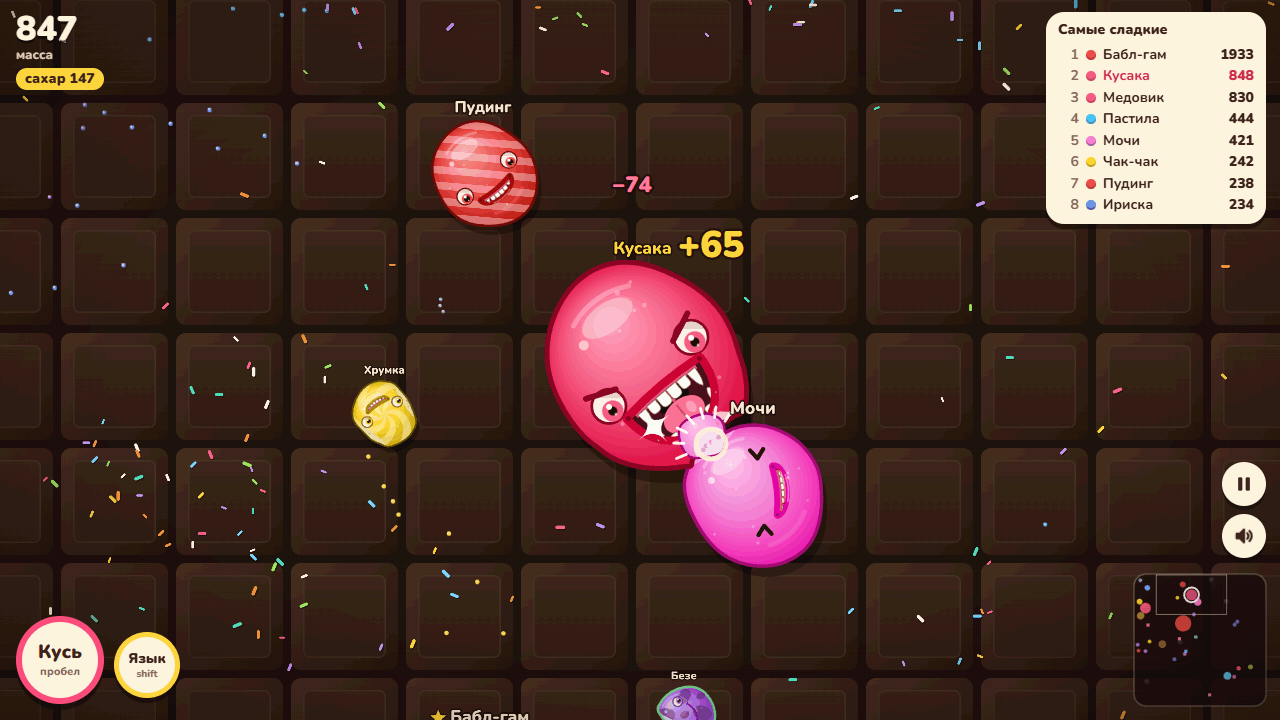
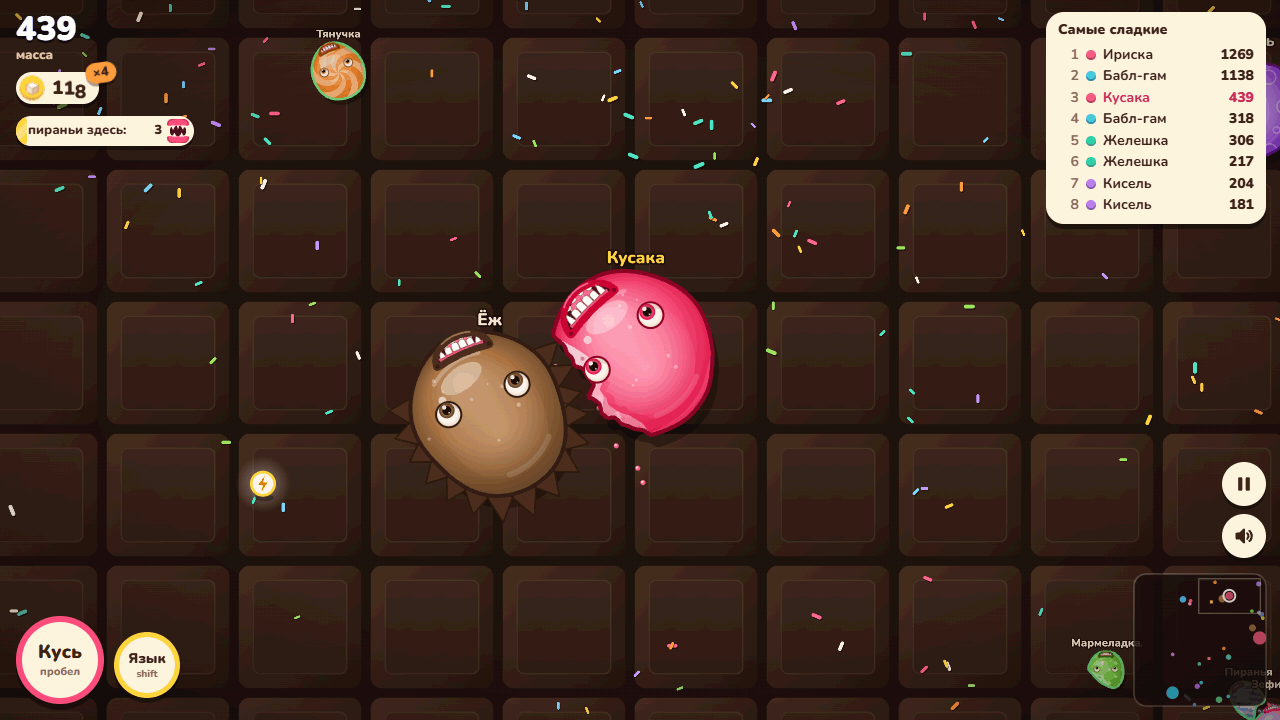
Docs for the trophy, streak, wrapper and cream pills

diff --git a/README.md b/README.md
@@ -16,12 +16,16 @@ The bitten candy stays in the game. It is left with a wound that heals over time
 
 On the tray there are sprinkles to eat and bonuses: speed, a shield and a magnet. A sticky tongue pulls prey to your mouth.
 
+Bites that follow one another build a streak (the window is 2.6 seconds). While it lasts, «×N» jumps above your candy instead of its name, a fuse ring on the tray and one around the «Кусь» button burn down and blink at the end, and every bite sends sugar cubes flying into the sugar pill, which rolls its number like an odometer. Longer streaks bring stamps («Ням!», «Хрум-хрум!», «Обжора!», «На волоске!» for a bite at the last moment), bigger eyes and, from ×5, a sugar rush of pulsing screen edges and sprinkles. When the streak ends a small pill says how much sugar it brought.
+
+If a ×5 or longer streak runs out on its own in a run without cheats, a runaway wrapper, «Фантик», jumps out of the last wound and flees for 5 seconds with «Лови!» over it. Touch it with your candy to catch it: it unwraps in front of you (the game does not stop) and pays sugar, sometimes with a rarer reveal («Редкий!», «Джекпот!»). Bots ignore it. Measurements: [docs/stages.md](docs/stages.md).
+
 <p align="center"><img src="docs/media/bite.png" width="560" alt="A short loop of a bite: the snap, the piece on its strand, chewing"></p>
 
 ## Screenshots
 
 <p align="center">
-  <img src="docs/media/phone-play.png" width="250" alt="Playing on a phone: the joystick under the thumb on the left, the bite and tongue buttons on the right, the leaderboard and the minimap at the top">
+  <img src="docs/media/phone-play.png" width="250" alt="Playing on a phone: the joystick under the thumb on the left, the bite and tongue buttons on the right, the cream mass, sugar and event pills at the top left, the leaderboard and the minimap at the top right">
   <img src="docs/media/phone-menu.png" width="250" alt="The short menu of a first visit: logo, one line about the game, name, flavour and the Play button">
   <img src="docs/media/phone-daily.png" width="250" alt="The end of a candy-of-the-day run: mass, bites, candies eaten whole, sugar earned and a pick of three candies">
 </p>
@@ -59,7 +63,7 @@ Special rivals:
 
 ## Modes
 
-- «Свободная игра» (free play): no time limit, and the run has stages. A line under your mass shows the next event and how much mass is left to it. At mass 150 (or by 0:45 at the latest) a piranha pack comes for you; at 600 (or by 2:00) a sweet rain of sprinkles and bonuses falls around you for 15 seconds; at 1600 the Big Cake, «Большой Торт», comes after you. It is a boss only you can bite: its crust is hard, it keeps its mouth turned to you and bites, then turns away for a few seconds, and that is the moment for the cherry on its back. A cherry bite makes it whirl round; at two thirds and one third it calls a piranha escort. Eat it and the run ends with a win screen, your clear time and your best time. «Вторая смена» (second shift) carries on with the same mass and place and a fresh score: the events come round by timers, faster, and each lap's cake is tougher. In free play there is no other cake and no other piranha packs. Design and measurements: [docs/stages.md](docs/stages.md).
+- «Свободная игра» (free play): no time limit, and the run has stages. A line under your mass shows the next event and how much mass is left to it. At mass 150 (or by 0:45 at the latest) a piranha pack comes for you; at 600 (or by 2:00) a sweet rain of sprinkles and bonuses falls around you for 15 seconds; at 1600 the Big Cake, «Большой Торт», comes after you. It is a boss only you can bite: its crust is hard, it keeps its mouth turned to you and bites, then turns away for a few seconds, and that is the moment for the cherry on its back. A cherry bite makes it whirl round; at two thirds and one third it calls a piranha escort. Eat it and the run ends with a trophy card, «Торт съеден!» (the cake is eaten): the clear time, a new-record ribbon, tiles for mass, bites and sugar, and a live frosting frame around the card that is poured on as it appears. Your best time is kept. «Вторая смена» (second shift) carries on with the same mass and place and a fresh score: the events come round by timers, faster, and each lap's cake is tougher. In free play there is no other cake and no other piranha packs. Design and measurements: [docs/stages.md](docs/stages.md).
 - «3 минуты на счёт» (3 minutes for score): a timed run, the best result is kept.
 - «Конфета дня» (candy of the day): a three-minute run on normal difficulty with a twist that comes from the date and is the same for everyone that day, such as twice as many hedgehogs, piranha packs from the first seconds or a cake on the tray from the start. The game keeps your best of the day and how many days in a row you have played. After a run you can send a friend a challenge link with your score; a link from an earlier day says that candy is over.
 
@@ -98,7 +102,7 @@ npm run sfx     # re-embed the sound takes listed in tools/sfx.json (needs ffmpe
 
 `index.html` in the root is generated from `src/` and committed together with the sources, because GitHub Pages serves it. Edit `src/`, then run `npm run build`.
 
-`npm test` runs 17 tests through `playwright-core`: startup on PC and phone, the phone buttons staying inside the screen, the bite rules, the first-visit menu, sugar and the shop, the candy of the day and its challenge links, settings, every sound effect, and three simulated minutes of the autopilot on ragged frames. The tests do not see the picture or hear the sound, and the game has not been tested automatically on a real iPhone.
+`npm test` runs 42 tests through `playwright-core`: startup on PC and phone, the phone buttons staying inside the screen, the bite rules, the first-visit menu, sugar and the shop, the candy of the day and its challenge links, the stages and the trophy card, the streak, the runaway wrapper and the cream-pill HUD, the bots, settings, every sound effect, and three simulated minutes of the autopilot on ragged frames. The tests do not see the picture or hear the sound, and the game has not been tested automatically on a real iPhone.
 
 How the code is organised is described in [`CLAUDE.md`](CLAUDE.md).
 

diff --git a/CLAUDE.md b/CLAUDE.md
@@ -17,6 +17,7 @@ npm run build      build index.html from src/
 npm test           build and run the tests in headless Chrome (needs an installed Chrome)
 npm run format     prettier over src/js, tools, tests
 node tests/run.mjs soak    only the tests whose name contains "soak" (no build: run npm run build first)
+node tools/wrap-curve.mjs 30 normal    the autopilot's runaway-wrapper catch rate and its share of a run's sugar (see docs/stages.md «Фантик»)
 npm run check      exit with an error if index.html does not match src/
 npm run og         rebuild og.png, the 1200×630 link preview picture, from a real frame of the game
 npm run shots      rebuild the README screenshots in docs/media/ from real frames of the game
@@ -58,13 +59,16 @@ Sound takes are made outside the repository with earshot (https://github.com/Leo
 | `10-album` | the album of eaten bots: `STICKERS`, rows `ALBUM_ROWS`, `pickBotName` (how often each name comes onto the field), `albumEat` (called from `swallowWhole`), the end-of-run line, the album page and `paintSticker` (the game's own drawing code on a stand-in candy) |
 | `10-daily` | "Конфета дня" (candy of the day, mode `daily`): the twist of the day `DAILY` by the local date (`dailyOf`), `day` — the twist in force, the best of the day and the days-in-a-row streak (`dailySave`) |
 | `10-stages` | the stages of a free run (`STAGE`, `stg`): piranha raid, sweet rain, the Big Cake boss (`BOSS`, `b.boss`), the win (`stageWin`, `kus.clear`) and the second shift (`secondShift`); `stagesOn()` keeps the ordinary cake and packs off a free run; `renderStage` fills the HUD line `#stage` |
+| `10-streak` | the bite streak's juice (×N over the candy, fuses, stamps, sugar rush, the summary pill) and the runaway wrapper (`WRAP` in `02-tuning`) |
 | `10-flow` | missions and patterns, start and end of a run, the 3-minute mode, `updateCamera`, `updateHUD`, the main `update` |
+| `10-hud` | the cream-pill HUD: the sugar pill (odometer, `sugarFly` cubes flying into it), the stage pill with jaws, the buff coins |
 | `11-draw-world` | the tray, `buildPath` (body outline), sprinkles, strands, wounds |
 | `12-draw-face` | mouth (`mouthGeo`, `drawMouthBack`, `drawMouthFront`), eyes, tongue, hats |
 | `13-draw-body` | bodies, pieces, labels, minimap, `render` |
 | `14-input` | mouse, keyboard, joystick and buttons on phones, choosing flavour, pattern and hat in the menu, the folding menu sections (`renderSecs` writes what each head shows) |
 | `15-admin` | the admin panel with cheats |
 | `16-settings` | pause, settings (one set, moved by `setHome` between the menu section and the pause card), the challenge link |
+| `16-trophy` | the live glaze frame of the trophy win card (canvas, drawn only while the card is shown) |
 | `17-boot` | `adapt` (automatic graphics tuning), `frame`, startup, `window.__kus` |
 
 A frame: `frame` → `update(dt)` (bots, bodies, collisions, bites, food, rings of points, camera, HUD) → `render()`.
@@ -85,6 +89,9 @@ Saves in `localStorage`: `kus.name`, `kus.color`, `kus.hat`, `kus.skin`, `kus.be
 - The difficulty `DIFFS`, the rescue from a lethal bite (`graceT`) and the allowances for a small player in `09-bots` keep a newcomer alive. Check the balance with the autopilot (`player.ai = newAI()`), not by eye.
 - Stages are for free play only. In `t3`, `daily` and the world behind the menu the cake and the piranha packs come as before (`population` in `09-bots`); in a free run the piranhas come only as stage raids and the cake only as the boss. Thresholds are the player's peak mass of the life (150, 600, 1600) with time ceilings for the first two (0:45, 2:00); nothing new starts while the boss is on the field.
 - The boss is the player's alone: bots neither bite it nor hunt it, and it bites only the player (`biteScan`, `botThink`). A win is a slow-down arc (`slowT`, `slowLen`, `slowDip`), never a freeze, and with cheats it does not count.
+- The wrapper's reveal (the dimmed edges and the counting number after a catch) never pauses game time. The wrapper appears only in a clean run, after a ×5+ streak lapses on its own, at most one at a time. Bots ignore it; the player's autopilot chases it (that is how `wrap-curve` measures it).
+- `sugarFly` is called after the sugar is added to `run.sugar`, in the same turn: the cubes only show a sum that is already paid, and the pill's odometer catches up when they land.
+- The trophy card is only for beating the Big Cake (`run.won`). Death, `t3` and `daily` keep the ordinary end card.
 - The page stays one file with no external scripts. No syntax or CSS newer than what iOS 15 Safari has (`inset`, for example, has already been replaced).
 - The ES5 script embedded at the start of `<body>` shows errors on screen. Do not touch it and do not move it to modern syntax.
 
